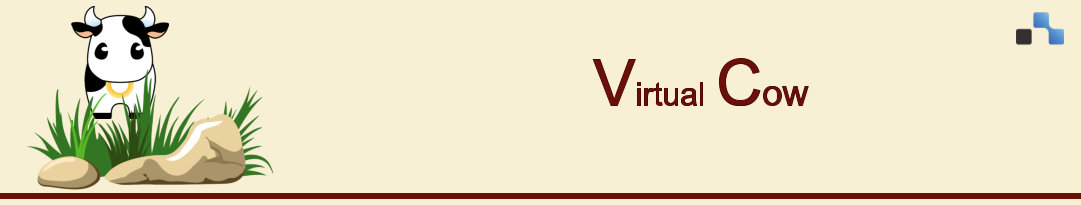
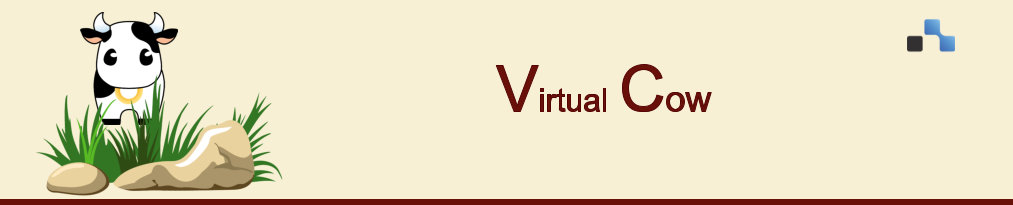
css test

Changed region(s): [[0.0, 0.0293, 1.0, 1.0], [0.4896, 0.2634, 0.7651, 0.5561], [0.8875, 0.0585, 1.0, 0.2634]]

diff --git a/src/main/webapp/css/style.css b/src/main/webapp/css/style.css
@@ -5,7 +5,7 @@ body, div, h1, h2, h3, h4, h5, h6, p, ul, img {margin:0px; padding:0px; }
 
 
 #main {background-color: #f8f0d5; 
-    width: 1096px;
+    width: 1010px;
     margin-left: 240px; }
 #header {
     padding-top: 40px; 
@@ -13,13 +13,13 @@ body, div, h1, h2, h3, h4, h5, h6, p, ul, img {margin:0px; padding:0px; }
 #header {
     
     height: 200px;
-    width: 1081px;
+    width: 1010px;
     float: left;
     background: #4b100b; 
 }
 #logo {background: url(../images/header.jpg) no-repeat;
     height: 200px;
-    width: 1096px;
+    width: 1010px;
     float: left; 
     margin-top: -40px;}
 }
@@ -32,13 +32,13 @@ body, div, h1, h2, h3, h4, h5, h6, p, ul, img {margin:0px; padding:0px; }
  
 /*----- Menu Outline -----*/
 .menu-wrap {
-    width:1081;
+    width:1010;
     box-shadow:0px 1px 3px rgba(0,0,0,0.2);
     background: #4b100b;
 }
  
 .menu {
-    width:1081px;
+    width:1010px;
     margin:0px auto;
 }
  
@@ -46,6 +46,7 @@ body, div, h1, h2, h3, h4, h5, h6, p, ul, img {margin:0px; padding:0px; }
     float: left; 
     padding-left: 100px;
     list-style:none;
+	font-size: 20px;
     
 }
  
@@ -103,7 +104,7 @@ body, div, h1, h2, h3, h4, h5, h6, p, ul, img {margin:0px; padding:0px; }
  
 .sub-menu li {
     display:block;
-    font-size:16px;
+    font-size:18px;
 }
  
 .sub-menu li a {
@@ -117,7 +118,7 @@ body, div, h1, h2, h3, h4, h5, h6, p, ul, img {margin:0px; padding:0px; }
 #content {
     margin-left: 70px;
     height: 0 auto;
-    width: 900px;
+    width: 950px;
     float: left; 
 }
 #content h1 {
@@ -155,11 +156,11 @@ body, div, h1, h2, h3, h4, h5, h6, p, ul, img {margin:0px; padding:0px; }
 }
 #footer {
     background: url(../images/footer.jpg) repeat-x;
-    height: 200px;
-    width: 1096px;
+    height: 175px;
+    width: 1010px;
 	margin-left: 240px;
     padding-top: 20px;
-    margin-top: 700px;
+    margin-top: 600px;
     color: #4b100b; 
     text-align: center;
 } 
